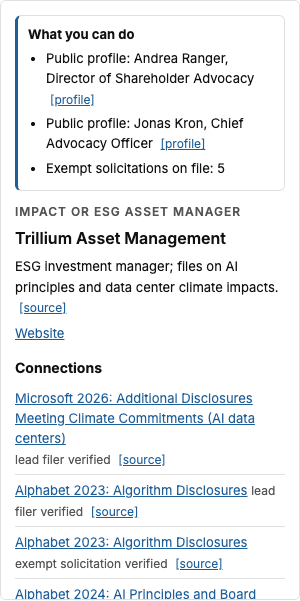
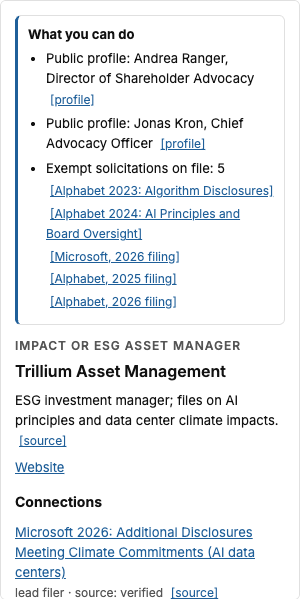
Lens Phase 1: review R2 fixes, dark Obsidian-style graph canvas
- Network graph box is a dark canvas (--g-bg) with bright --gn-* node colours and grey-blue links (owner)
- Confidence wording, real action buttons and measure column in List view, Same topic heading, labelled counts
- Support range: 8-K wording, floor proposals excluded; secondary-domain list extended
- Exempt solicitation links named by proposal or company and year
- STATE.md rewritten; DESIGN.md; reviews R1/R2 saved; screenshots refreshed

Changed region(s): [[0.03, 0.2995, 0.99, 1.0]]

diff --git a/graph.js b/graph.js
@@ -60,6 +60,8 @@
 
   const esc = (s) => String(s ?? "").replace(/[&<>"']/g, (c) => ({ "&": "&amp;", "<": "&lt;", ">": "&gt;", '"': "&quot;", "'": "&#39;" }[c]));
   const link = (url, label = "source") => url ? `<a class="src" href="${esc(url)}" target="_blank" rel="noopener">[${esc(label)}]</a>` : `<span class="unverified">source pending</span>`;
+  // Node colours on the dark graph canvas: the --gn-* set (styles.css), one per --n-* type token.
+  const nodeColor = (kind) => cssVar(String(TYPE_VAR[kind] || "--n-other").replace("--n-", "--gn-"));
   const cssVar = (name) => getComputedStyle(document.documentElement).getPropertyValue(name).trim() || "#888";
 
   let state = null;
@@ -317,7 +319,7 @@
     const order = Object.keys(TYPE_LABEL);
     kinds.sort((a, b) => order.indexOf(a) - order.indexOf(b));
     document.getElementById("net-legend").innerHTML = kinds.map((k) =>
-      `<button type="button" class="leg" data-kind="${esc(k)}" aria-pressed="${!state.hiddenKinds.has(k)}"><span class="dot" style="background:${cssVar(TYPE_VAR[k])}"></span>${esc(TYPE_LABEL[k])}</button>`).join("");
+      `<button type="button" class="leg" data-kind="${esc(k)}" aria-pressed="${!state.hiddenKinds.has(k)}"><span class="dot" style="background:${nodeColor(k)}"></span>${esc(TYPE_LABEL[k])}</button>`).join("");
   }
 
   // One plain line: how much is shown, and what node size means. Recomputed when layers change.
@@ -372,7 +374,7 @@
   // One action item: its text, its links and, for a button, a real control (panel and List view alike).
   function actionHtml(a, id, i) {
     const lk = (href, label) => ` <a class="src" href="${esc(href)}" target="_blank" rel="noopener">[${esc(label)}]</a>`;
-    return `${a.text ? esc(a.text) : ""}${a.href ? lk(a.href, a.hrefLabel || "source") : ""}${(a.links || []).map((l) => lk(l.href, l.label)).join("")}${a.button ? `<button type="button" class="chip" data-act-node="${esc(id)}" data-act="${i}">${esc(a.button.label)}</button>` : ""}`;
+    return `${a.text ? esc(a.text) : ""}${a.href ? lk(a.href, a.hrefLabel || "source") : ""}${a.links && a.links.length ? `<ul class="act-links">${a.links.map((l) => `<li>${lk(l.href, l.label)}</li>`).join("")}</ul>` : ""}${a.button ? `<button type="button" class="chip" data-act-node="${esc(id)}" data-act="${i}">${esc(a.button.label)}</button>` : ""}`;
   }
   function wireActions(root) {
     root.querySelectorAll("[data-act]").forEach((b) => b.addEventListener("click", () => {
@@ -451,10 +453,11 @@
         if (q) return d.label.toLowerCase().includes(q) ? 1 : 0.12;
         return near && !near.has(d.id) ? 0.12 : 1;
       })
-      .attr("stroke-width", (d) => (d.id === state.selected ? 3 : 1.2));
+      .attr("stroke", (d) => (d.id === state.selected ? cssVar("--g-focus") : cssVar("--g-bg")))
+      .attr("stroke-width", (d) => (d.id === state.selected ? 2.5 : 1));
     if (state.ringSel) state.ringSel.attr("display", (d) => (visible(d) ? null : "none"));
     state.linkSel.attr("display", (l) => (visible(l.source) && visible(l.target) ? null : "none"))
-      .attr("stroke-opacity", (l) => (near ? (l.source.id === focusId || l.target.id === focusId ? 0.9 : 0.04) : q ? 0.08 : 0.35));
+      .attr("stroke-opacity", (l) => (near ? (l.source.id === focusId || l.target.id === focusId ? 0.9 : 0.04) : q ? 0.08 : 0.45));
     state.labels.attr("display", (d) => (visible(d) ? null : "none"))
       .attr("opacity", (d) => {
         if (q) return d.label.toLowerCase().includes(q) ? 1 : 0;
@@ -468,7 +471,7 @@
     if (!state.ringLayer) return;
     state.ringLayer.selectAll("*").remove();
     state.ringSel = state.ringLayer.selectAll("circle").data(state.data.nodes.filter((n) => rings(n).length)).join("circle")
-      .attr("r", (d) => radius(d) + 4).attr("fill", "none").attr("stroke", cssVar("--accent")).attr("stroke-width", 2).attr("stroke-dasharray", "4 2")
+      .attr("r", (d) => radius(d) + 4).attr("fill", "none").attr("stroke", cssVar("--g-ring")).attr("stroke-width", 1.5).attr("stroke-dasharray", "4 2")
       .attr("cx", (d) => d.x).attr("cy", (d) => d.y);
   }
   function placeFocusMark() {
@@ -559,18 +562,18 @@
       .force("gy", d3.forceY((d) => groupY(d) * height).strength(state.cfg.group * 0.8));
     state.sim = sim;
     // Column labels for the grouped layout; they move and zoom with the graph.
-    state.axis = g.append("g").attr("font-size", 11).attr("font-weight", 600).attr("fill", cssVar("--ink-soft"))
+    state.axis = g.append("g").attr("font-size", 11).attr("font-weight", 600).attr("fill", cssVar("--g-label-soft"))
       .attr("display", state.cfg.group > 0 ? null : "none");
     drawAxis();
-    state.linkSel = g.append("g").attr("stroke", cssVar("--blue-3")).attr("fill", "none").selectAll("path").data(data.links).join("path")
+    state.linkSel = g.append("g").attr("stroke", cssVar("--g-link")).attr("fill", "none").selectAll("path").data(data.links).join("path")
       .attr("stroke-width", (l) => (l.relation === "lead filer" ? 1.4 : 1) * state.cfg.linkScale)
       // Membership links are dashed; links with no source (inferred) are dotted, so the two never look alike.
       .attr("stroke-dasharray", (l) => (conf(l).level === "inferred" ? "1 3" : l.relation === "member of" ? "3 3" : null));
 
     state.node = g.append("g").selectAll("circle").data(data.nodes).join("circle")
       .attr("r", radius)
-      .attr("fill", (d) => cssVar(TYPE_VAR[d.kind]))
-      .attr("stroke", cssVar("--surface"))
+      .attr("fill", (d) => nodeColor(d.kind))
+      .attr("stroke", cssVar("--g-bg"))
       .style("cursor", "pointer")
       .on("mouseenter", (ev, d) => { state.hover = d.id; applyStyles(); })
       .on("mouseleave", () => { state.hover = null; applyStyles(); })
@@ -583,15 +586,15 @@
     // Lens rings (dashed, accent) and the keyboard focus mark (solid ink ring with a white gap) sit on top.
     state.ringLayer = g.append("g").attr("pointer-events", "none");
     state.focusMark = g.append("g").attr("pointer-events", "none").attr("display", "none");
-    state.focusMark.append("circle").attr("class", "fm-gap").attr("fill", "none").attr("stroke", cssVar("--bg")).attr("stroke-width", 3);
-    state.focusMark.append("circle").attr("class", "fm-ring").attr("fill", "none").attr("stroke", cssVar("--ink")).attr("stroke-width", 2);
+    state.focusMark.append("circle").attr("class", "fm-gap").attr("fill", "none").attr("stroke", cssVar("--g-bg")).attr("stroke-width", 3);
+    state.focusMark.append("circle").attr("class", "fm-ring").attr("fill", "none").attr("stroke", cssVar("--g-focus")).attr("stroke-width", 2);
     drawRings();
 
     state.labels = g.append("g").selectAll("text").data(data.nodes).join("text")
       .text((d) => (d.label.length > 42 ? d.label.slice(0, 40) + "…" : d.label))
       .attr("font-size", (d) => (d.kind === "company" ? state.cfg.textSize + 2 : state.cfg.textSize))
       .attr("font-weight", (d) => (d.kind === "company" ? 600 : 400))
-      .attr("fill", cssVar("--ink"))
+      .attr("fill", cssVar("--g-label"))
       .attr("pointer-events", "none")
       .attr("dx", (d) => radius(d) + 4).attr("dy", 4);
 
@@ -627,7 +630,7 @@
       .sort((a, b) => ((dir === "descending" ? -1 : 1) * ((val(a) ?? -1) - (val(b) ?? -1))) || a.label.localeCompare(b.label));
     const body = rows.map((n) => {
       const acts = actions(n).map((x, i) => actionHtml(x, n.id, i));
-      return `<tr><td><button type="button" class="linklike" data-id="${esc(n.id)}">${esc(n.label)}</button></td><td>${esc(TYPE_LABEL[n.kind])}</td>${m ? `<td class="num">${val(n) ?? ""}</td>` : ""}<td class="num">${n.degree || 0}</td><td>${esc(rings(n).map((r) => r.text).join(", "))}</td><td>${acts.join("<br>")}</td></tr>`;
+      return `<tr><td><button type="button" class="linklike" data-id="${esc(n.id)}">${esc(n.label)}</button></td><td>${esc(TYPE_LABEL[n.kind])}</td>${m ? `<td class="num">${val(n) ?? "–"}</td>` : ""}<td class="num">${n.degree || 0}</td><td>${esc(rings(n).map((r) => r.text).join(", "))}</td><td>${acts.join("<br>")}</td></tr>`;
     }).join("");
     const el = document.getElementById("net-list");
     const sortLabel = m ? m.label : "Connections";

diff --git a/lenses.js b/lenses.js
@@ -94,8 +94,19 @@
     people.forEach((p) => out.push({ text: `Public profile: ${p.label}${p.title ? ", " + p.title : ""}`, href: p.profile_url || p.source_url, hrefLabel: "profile" }));
     // Exempt solicitations filed by this organisation: distinct filings, not graph edges (one filing can
     // appear on both the proposal and the company). "support" edges are statements, not filings.
-    const filings = new Set(ctx.links.filter((l) => end(l.source) === n.id && /^exempt solicitation/.test(l.relation) && !/support/.test(l.relation) && l.source_url).map((l) => l.source_url));
-    if (filings.size) out.push({ text: `Exempt solicitations on file: ${filings.size}`, links: [...filings].map((href, i) => ({ href, label: String(i + 1) })) });
+    // Each link is named by what the filing is about (its proposal or company), so links can be told apart.
+    const filings = new Map();
+    ctx.links.filter((l) => end(l.source) === n.id && /^exempt solicitation/.test(l.relation) && !/support/.test(l.relation) && l.source_url)
+      .forEach((l) => {
+        const t = ctx.byId.get(end(l.target));
+        // A filing tied only to a company is named by company and filing year; the year is the two digits
+        // after the filer ID in an SEC accession number (…/000121465925006528/ is a 2025 filing).
+        const yr = (String(l.source_url).match(/\/\d{10}(\d{2})\d{6}\//) || [])[1];
+        const name = t ? (t.kind === "proposal" || !yr ? t.label : `${t.label}, 20${yr} filing`) : "filing";
+        // Prefer the proposal's name over the company's when the same filing is on both.
+        if (!filings.has(l.source_url) || (t && t.kind === "proposal")) filings.set(l.source_url, name.length > 48 ? name.slice(0, 46) + "…" : name);
+      });
+    if (filings.size) out.push({ text: `Exempt solicitations on file: ${filings.size}`, links: [...filings].map(([href, label]) => ({ href, label })) });
     return out;
   }
 
@@ -155,8 +166,7 @@
         const cos = new Set(same.map((p) => p.company));
         const years = same.map((p) => p.year).filter(Boolean).sort();
         const span = years.length ? (years[0] === years.at(-1) ? `${years[0]}` : `${years[0]}–${years.at(-1)}`) : "";
-        const out = [{ text: `Same topic (${n.topic}): ${same.length} proposals at ${cos.size} ${cos.size === 1 ? "company" : "companies"}${span ? ", " + span : ""}` }];
-        // Only figures stated in a vote-results filing; no average is computed.
+        const out = [{ text: `${n.topic}: ${same.length} proposals at ${cos.size} ${cos.size === 1 ? "company" : "companies"}${span ? ", " + span : ""}` }];
         // Lowest and highest support where an 8-K reports the vote; no average. Many of these figures are
         // computed by this site from the 8-K's vote counts (see support_note in data/proposals.json), so the
         // text points to the notes. Floor proposals (raised at the meeting, so proxy votes could not be cast on

diff --git a/styles.css b/styles.css
@@ -161,6 +161,19 @@ tr.hit td { background: var(--accent-soft); }
   --n-tier-chips: #1e40af; --n-tier-datacenters: #155e75; --n-tier-compute: #4338ca;
   --n-tier-labs: #6d28d9; --n-tier-capital: #a16207; --n-tier-deployers: #374151;
 }
+/* Co-filer network canvas: dark, like Obsidian's graph view (owner, 2026-11-25: "for the graph view i want
+   the black background and colors like this so that the graph looks similar to an Obsidian graph").
+   Only the graph box is dark; the page, panel, key and List view stay white. Node colours are bright and
+   distinct on the dark canvas; links are thin grey-blue. Every node colour reaches 4.5:1 or more on --g-bg. */
+:root {
+  --g-bg: #1e1e1e; --g-link: #7a8199; --g-label: #dcddde; --g-label-soft: #a1a1aa; --g-ring: #7dd3fc; --g-focus: #ffffff;
+  --gn-company: #93c5fd; --gn-lab: #c4b5fd; --gn-proposal: #38bdf8;
+  --gn-manager: #4ade80; --gn-nonprofit: #f472b6; --gn-faith: #e879f9; --gn-pension: #fb923c;
+  --gn-labor: #facc15; --gn-foundation: #bef264; --gn-coalition: #2dd4bf; --gn-other: #a1a1aa;
+  --gn-person: #e2e8f0; --gn-policy: #fca5a5; --gn-response: #67e8f9; --gn-public: #f9a8d4;
+  --gn-tier-chips: #fbbf24; --gn-tier-datacenters: #22d3ee; --gn-tier-compute: #60a5fa;
+  --gn-tier-labs: #a78bfa; --gn-tier-capital: #f87171; --gn-tier-deployers: #d4d4d8;
+}
 /* Graph settings panel (display, filters, forces), modelled on Obsidian's graph view settings. */
 .graph-settings { border: 1px solid var(--control-edge); border-radius: var(--radius); padding: 6px 12px; margin: 0 0 10px; font-size: 13px; }
 .graph-settings summary { cursor: pointer; font-weight: 600; padding: 2px 0; }
@@ -174,7 +187,7 @@ tr.hit td { background: var(--accent-soft); }
 .gs-check { display: flex; gap: 6px; align-items: center; }
 .gs-check input { accent-color: var(--accent); }
 .net-body { display: grid; grid-template-columns: 1fr 300px; gap: 12px; }
-.net-graph { height: 600px; background: var(--surface); border: 1px solid var(--line); border-radius: var(--radius); overflow: hidden; touch-action: none; }
+.net-graph { height: 600px; background: var(--g-bg); border: 1px solid var(--g-bg); border-radius: var(--radius); overflow: hidden; touch-action: none; }
 .net-graph svg { display: block; }
 .net-list { min-width: 0; }
 .net-list .table-wrap { margin-top: 0; }
@@ -190,6 +203,9 @@ tr.hit td { background: var(--accent-soft); }
 .net-actions ul { margin: 0; padding-left: 18px; }
 .net-actions li { margin: 4px 0; }
 .net-actions .chip { margin-top: 2px; }
+.net-actions .act-links { list-style: none; padding: 0; margin: 2px 0 0; }
+.net-actions .act-links li { margin: 2px 0; overflow-wrap: anywhere; }
+.net-actions .act-links .src { white-space: normal; }
 .ring-note { font-size: 12px; font-weight: 600; color: var(--accent); }
 .ring-note::before { content: "◌ " / ""; }
 .conf { font-size: 12px; color: var(--ink-soft); }

diff --git a/tests/lens.spec.js b/tests/lens.spec.js
@@ -72,7 +72,12 @@ test("opening a tab puts its name in the address (#hash)", async ({ page }) => {
 test("labels are off until a node is selected, then name it and its connections", async ({ page }) => {
   await openNetwork(page, "?lens=impact");
   await page.waitForTimeout(800);
-  const shown = () => page.$$eval("#net-graph text", (ts) => ts.filter((t) => t.getAttribute("display") !== "none" && t.getAttribute("opacity") === "1").map((t) => t.textContent));
+  const shown = () =>
+    page.$$eval("#net-graph text", (ts) =>
+      ts
+        .filter((t) => t.getAttribute("display") !== "none" && t.getAttribute("opacity") === "1")
+        .map((t) => t.textContent),
+    );
   expect(await shown()).toEqual([]);
   await page.evaluate(() => window.focusNetworkNode("co-MSFT"));
   const after = await shown();

diff --git a/docs/STATE.md b/docs/STATE.md
@@ -1,6 +1,6 @@
 # Shareholder Advocacy AI Landscape — current state
 
-Rewritten in place, never appended. Hard cap 200 lines. Last updated 2026-11-25 (UI session, round 2 merge).
+Rewritten in place, never appended. Hard cap 200 lines. Last updated 2026-11-25 (UI session, lens Phase 1 on branch, not merged).
 
 ## Sessions and branches (read this first)
 
@@ -9,7 +9,7 @@ Rewritten in place, never appended. Hard cap 200 lines. Last updated 2026-11-25 
 | Session | Owns | Branch | State |
 |---|---|---|---|
 | Data / backend ("Account linking") | `data/*.json`, `scripts/`, `SOURCES.md`, `.github/workflows/` | `data/value-chain` (open) | On `main` since this merge: 60 companies (`data/companies.json`, owner kept all), value-chain tiers (`data/value_chain.json`, `tier`/`tiers` on companies and graph nodes), ownership for 9 private labs. Open on `data/value-chain`: rights maps for 22 more US companies (commit a1f5649, in data accuracy review) and value-chain ties plus per-tier facts (in research). |
-| UI ("Shareholder advocacy AI landscape UI") | page files: `index.html`, `styles.css`, `app.js`, the view JS files incl. `votes.js`, `DESIGN.md`, `tests/` | `design/round2-structure` (merged with this update) | Round 2 live. Next: lens Phase 1 (owner approved), then the value-chain and engagement-map visuals once `data/value_chain.json` lands. |
+| UI ("Shareholder advocacy AI landscape UI") | page files: `index.html`, `styles.css`, `app.js`, the view JS files incl. `votes.js`, `DESIGN.md`, `tests/` | `design/lens-phase1` (pushed, **not merged**; waits for the owner's go-ahead) | Round 2 live. Lens Phase 1 built and checked on the branch; see "Lens Phase 1" below. Next: lens Phase 2 after the owner's go-ahead, and the value-chain and engagement maps (data now on `data/value-chain`). |
 | Protocol setup | `AGENTS.md`, `CLAUDE.md`, checks, `docs/` structure | `docs-session-onboarding` (local) | Idle. |
 
 **Data contract:** views read only `data/*.json`.
@@ -65,15 +65,22 @@ Rewritten in place, never appended. Hard cap 200 lines. Last updated 2026-11-25 
 
 **Network node key by value-chain tier** (owner, after R2): "Instead of 'company,' have 'Frontier AI Labs,' 'hyperscalers,' 'chip builders' … coordinate with the other chat". Built to read `tier` from graph.json, with labels verbatim from the data session. It shows "Company (tier not yet assigned)" until `data/value-chain` merges. Tested with that branch's data: 24/24 pass.
 
+## Lens Phase 1 (branch `design/lens-phase1`)
+
+Plan: docs/plans/2026-11-25-lens-phase1.md (Revision 2, plus Build notes).
+- Co-filer network: a "View as" choice of Impact investor, Individual investor or Policymaker, kept in `?lens=` and in localStorage.
+- `lenses.js` holds each lens's layers, size, rings, actions and measure. `rules.js` holds the edge-confidence domain list.
+- The "What you can do" block; edge confidence (verified / reported / inferred); keyboard node navigation; a List view of every visible node.
+- Labels are off by default and show on select (owner, mid-build).
+- **Dark Obsidian-style graph canvas** (owner, mid-build): `--g-bg` #1e1e1e, bright `--gn-*` node colours (6:1 or more), grey-blue links. The page stays white; Lab pathways keeps `--n-*`.
+- **Bug fixed:** since round 2, tabs no longer wrote `#hash` to the address bar, because `app.js`'s `history()` replaced `window.history`. It is now `voteHistory()`, with a test.
+- **Check (merged with origin/main):** lint 0 errors; 54 passed, 2 skipped (keyboard test at desktop only); Lighthouse 100/100/100 for accessibility, best practices and SEO, performance 100 phone / 90 desktop.
+- **Reviews:** R1 UX 72, accessibility 83 PASS, data 76. R2 UX 86 PASS, data 88 PASS. The dark canvas came after R2 and has not been reviewed.
+
 ## Next (UI session)
 
-1. **Lens Phase 1** (owner approved with defaults: plain-language definitions only in the Individual investor lens; static rings plus countdown, pulse optional):
-   - Impact investor / Individual investor / Policymaker toggle, `?lens=`;
-   - `lenses.js` and `rules.js` config files;
-   - "What you can do" panel block;
-   - edge confidence markers (verified / reported / inferred);
-   - keyboard focus on graph nodes.
-2. **Value chain map and engagement map** (owner request via the data session): build when `data/value_chain.json` is merged.
+1. **Lens Phase 2** after the owner's go-ahead: open-window aura, seeking aura, resubmission flags (thresholds in `rules.js`), holdings overlay, gap finder, warm path.
+2. **Value-chain map and engagement map:** `data/value_chain.json` `ties` and `per_tier` exist on `data/value-chain`. Show its `derived_note` caveat: proposal counts cover the original 7 companies only.
 
 ## Queue (found, not picked up)
 
@@ -90,6 +97,9 @@ Rewritten in place, never appended. Hard cap 200 lines. Last updated 2026-11-25 
 6. **Outside links to check by hand:** an SEC comment PDF (`data/causality.json`); www.omiusa.org and www.harringtoninvestments.com (`data/graph.json`).
 7. **Deploy publishes the whole repo** (`path: .` in refresh.yml). It could publish `dist/` instead; this is the owner's call.
 8. **Playwright still runs a "dark" project** although the site has one white theme. Drop the dark projects in `playwright.config.js` to halve test time.
+9. **Network link contrast:** links are `--blue-3` at 0.35 opacity (about 1.5:1). The dotted "inferred" lines are hard to tell from dashed membership lines at 1px. The panel and List view carry the same facts as text. Raising the opacity makes the graph busier, so it's for the owner (accessibility R1).
+10. **Data, for the data session:** graph.json and proposals.json support values differ slightly (33.57 vs 33.58). Item 6 at Microsoft 2026 is "Social & economic impacts" in graph.json but "Data center impacts" in upcoming.json.
+11. **Proposals tab has no filer filter**, so the network can't offer "Open its filings in Proposals".
 
 ## Owner actions
 

diff --git a/DESIGN.md b/DESIGN.md
@@ -37,7 +37,7 @@ One white theme (`color-scheme: light`). All colours are tokens on `:root` in `s
 | Visual | Encoding |
 |---|---|
 | Proposals dot plot | x = meeting date; y = support (0–60%, or higher if the data needs it); one mark per voted proposal with a dated vote-results filing. Topic = shade **and** shape: data centres navy circle, social and economic mid-blue square, governance light-blue triangle. Hollow mark = the figure carries a basis note or caveat (numbered note under the table). Dashed line "50% of for + against". Marks sharing a date are spread 7px apart. |
-| Co-filer network | **Exception to all-blue, by the owner's direction:** one saturated, distinct colour per node type (`--n-*`, each 3:1 or more on white), so types read straight off the key. **Companies are typed by value-chain tier** (the `tier` field on graph.json nodes, from the data session): Chip builders, Data centers and power, Hyperscalers and AI clouds, Frontier AI labs, Strategic investors, AI deployers. Each tier has its own `--n-tier-*` colour, and companies sit in tier bands within the Companies column. A company with no tier shows as "Company (tier not yet assigned)". The intro says the tiers are this site's reading. Overlapping default labels are hidden, keeping companies and labs first and then the most connected nodes; hover or select a node to show its label. **Grouped 2D layout:** x follows the filing chain (people → filers → proposals → companies → frontier labs); filer types each get a horizontal band; policy, responses and public engagement sit in a top band. Size = number of connections. Links light blue, thin quadratic arcs. **Graph settings** panel (like Obsidian's): text size, label threshold, node size and link thickness (Display); orphans (Filters); grouping, centre, repel and link force, and link distance (Forces). Saved per viewer in localStorage, with "Reset to defaults". |
+| Co-filer network | **Exception to all-blue and to the white page, by the owner's direction:** the graph box is a dark canvas like Obsidian's graph view (`--g-bg` #1e1e1e; owner: "the black background and colors like this so that the graph looks similar to an Obsidian graph"). One bright, distinct colour per node type (`--gn-*`, each 4.5:1 or more on `--g-bg`), so types read straight off the key. Links are thin grey-blue (`--g-link`) and labels light (`--g-label`). The page, key, panel and List view stay white. Lab pathways keeps the `--n-*` colours on white. **Companies are typed by value-chain tier** (the `tier` field on graph.json nodes, from the data session): Chip builders, Data centers and power, Hyperscalers and AI clouds, Frontier AI labs, Strategic investors, AI deployers. Each tier has its own `--n-tier-*` colour, and companies sit in tier bands within the Companies column. A company with no tier shows as "Company (tier not yet assigned)". The intro says the tiers are this site's reading. Overlapping default labels are hidden, keeping companies and labs first and then the most connected nodes; hover or select a node to show its label. **Grouped 2D layout:** x follows the filing chain (people → filers → proposals → companies → frontier labs); filer types each get a horizontal band; policy, responses and public engagement sit in a top band. Size = number of connections. Links thin grey-blue quadratic arcs on the dark canvas. **Graph settings** panel (like Obsidian's): text size, label threshold, node size and link thickness (Display); orphans (Filters); grouping, centre, repel and link force, and link distance (Forces). Saved per viewer in localStorage, with "Reset to defaults". |
 | Lab pathways | Company → lab ties navy, width = tie strength. Filer → company links light blue, width = proposals filed. |
 | Policy and causality | Event nodes mid blue. Link type by dash pattern: led to solid · responded to dashed · restricts dotted · enables dash-dot · cited by sparse dots. |
 | Disclosure scorecard | Met = solid blue, partial = hatched blue, silent = grey outline. |

diff --git a/docs/reviews/2026-11-25 lens phase1 result R2 data accuracy.md b/docs/reviews/2026-11-25 lens phase1 result R2 data accuracy.md
@@ -1,0 +1,33 @@
+REVIEWER: Data accuracy SCORE: 88 VERDICT: PASS
+
+Round 2. I re-ran lenses.js and rules.js in node against the merged data: graph.json now has 335 nodes and 709 edges.
+
+TOP FAILURES (max 3, each with evidence)
+1. **A stale comment in lenses.js contradicts the fix.** In the Policymaker actions, the old line "Only figures stated in a vote-results filing; no average is computed." still sits directly above the new comment that says many figures are computed from vote counts. It doesn't change what's shown, but the code now states both claims.
+2. **The low end of the range carries a caveat that's lost.** Social & economic impacts recomputes to 0.46%–37.5% across 33 proposals, which matches the screenshot. The 0.46% is Alphabet 2025 (googl-2025-10). Its `support_note` says the figure is "Not stated in the 8-K" and that, because of dual-class voting, "support from outside holders is higher". The generic "notes are in Proposals" line covers this only loosely.
+3. **The screenshot doesn't match the current code.** desktop-light-policy-proposal.png reads "Same topic (Social & economic impacts): 43 proposals…". lenses.js now prints "Social & economic impacts: 43 proposals at 6 companies, 2023–2026" under the "Same topic" heading. The numbers agree; the wording is one revision behind.
+
+Verified:
+- **Confidence markers:** 457 verified, 85 reported, 167 inferred. Your count of 456 differs by 1 because graph.json has one more edge after the merge (709 vs 708).
+- **Domain list:** all 16 added domains are present (36 in total), and none is unused.
+- **co-MSFT:** "top 3 of 13 by proposals". There are 13 distinct filers, which matches the screenshot. The meeting note is quoted correctly and the proxy link is right.
+- **Trillium:** 5 distinct exempt solicitations and 2 public profiles. NLPC: 6.
+- **Floor filter:**
+  - amzn-2026-worker-ai-council is excluded because its source_url contains "Floor".
+  - googl-2025-15(floor) has no `results_url`, so it was never in the range.
+  - No other floor proposals exist.
+- The dropped filer action and its reason are recorded in the plan's Build notes.
+
+TOP IMPROVEMENTS (max 3)
+1. Delete the stale comment line.
+2. Mark a figure whose `support_note` mentions dual-class voting, or name the Alphabet caveat in the support line.
+3. Detect floor proposals from a data field, not from "floor" in the id or URL, once the data session nulls those values. Then re-take the policy screenshot.
+
+OUT-OF-FIELD NOTES (max 3, one line each)
+- msft-2026-hr-hotspots is "Social & economic impacts" in graph.json, but upcoming.json gives item 6 as "Data center impacts".
+- graph.json has 49 support values with a `results_url`, proposals.json has 53, and some values differ (33.57 vs 33.58).
+- amzn-2026-worker-ai-council still has support_pct 0.0 on this branch; the nulling is pending on the data branch.
+
+CONTENT RULES: PASS
+- **Never claim 1–2:** the actions state dates, filers and counts, and `board_rec` is never shown. The deadline appears only as a quoted "Proxy note".
+- **Never claim 5:** no average is computed, the range ends are figures on file, and the text now says some are computed from 8-K counts.

diff --git a/docs/reviews/2026-11-25 lens phase1 result R2 ux content.md b/docs/reviews/2026-11-25 lens phase1 result R2 ux content.md
@@ -1,0 +1,23 @@
+REVIEWER: UX / content SCORE: 86 VERDICT: PASS
+
+R1 FIXES CHECKED
+- The confidence wording is fixed. It now reads "lead filer · source: verified" and "equity stake · source: reported", so it no longer runs into the relation text (graph.js:344; screenshots desktop-light-impact-microsoft.png and desktop-light-impact-filer-panel.png).
+- List view: action buttons are real `<button data-act>` elements wired by `wireActions`, links are kept, and there is a lens measure column, sortable with aria-sort, plus a persistent count line naming the sort (graph.js:373-382 and 621-650). Fixed.
+- "Open its filings in Proposals" is dropped and recorded in the plan's Build notes (line 111). That's the right call under the no-dead-controls rule.
+- Counts are labelled: "top 3 of 13 by proposals … (3 proposals)" (lenses.js:83). The Policymaker block is headed "Same topic". Each exempt solicitation is linked.
+
+TOP FAILURES (none blocking)
+1. desktop-light-policy-proposal.png is stale. It shows "Same topic" twice (the heading, then "Same topic (Social & economic impacts): …"). The working tree has fixed this (lenses.js:158 now leads with `${n.topic}:`; lenses.js was modified after the shots, at 19:29), but no current screenshot shows the fix. Re-shoot before you record the result.
+2. The exempt solicitation links are labelled [1] [2] [3] [4] [5] (lenses.js:98; filer-panel screenshot). A practitioner can't tell which filing is which, and a screen reader hears only "1", "2". Use a date or the proposal name instead.
+
+TOP IMPROVEMENTS
+1. Policymaker: "notes are in Proposals" points somewhere in text only. A real link or button to the Proposals tab filtered by that topic would make it usable. If no topic filter exists, the current wording is fine.
+2. In the Individual lens list, proposals show a blank in "AI proposals on file", and 0-proposal companies (Warner Bros. Discovery, Workday) sort together at the bottom. Consider an en dash for "not applicable" so a blank isn't read as missing data.
+3. The upcoming meeting is listed as "Next AI vote: December 8, 2026. Proxy note: 'Vote by 11:59 p.m. …'". Quoting it removes the imperative concern; keep it as is.
+
+OUT-OF-FIELD NOTES
+- Visual: with labels shown on select, the labels around Microsoft still overlap heavily ("Microsoft" is hidden under a proposal label) in desktop-light-impact-microsoft.png.
+- Data accuracy: the support range now starts at 0.46% and floor proposals are excluded. Confirm the data session's null `support_pct` change has landed so the range doesn't shift after merge.
+- Accessibility: the bare numeric link labels from failure 2 also matter for WCAG 2.4.4 (link purpose).
+
+CONTENT RULES: PASS. Actions state dates, links, people and counts. Nothing says how to vote or gives advice. The proxy deadline is quoted as the filing's own words. No average is computed, and the computed-from-8-K caveat is stated. People are shown only by name, title and public profile. Headings are plain labels.

diff --git a/docs/plans/2026-11-25-lens-phase1.md b/docs/plans/2026-11-25-lens-phase1.md
@@ -113,3 +113,5 @@ The open-window aura, seeking asks, resubmission flags, holdings overlay, gap fi
 - **Floor proposals are left out of support ranges** (data session: proxy votes could not be cast on them). The data session is setting their `support_pct` to null on `data/value-chain`.
 - **Fixed a round-2 bug found while testing:** `app.js` declared a top-level `function history()`, which replaced `window.history`. Tabs had stopped writing their `#hash` to the address bar. It is renamed `voteHistory()`, and there is a new test.
 - After result review R1: confidence reads "· source: verified" or "· no source, inferred from co-filing". The List view gets real action buttons and links, plus the lens's measure column (sortable). The Policymaker block is headed "Same topic". Counts are labelled. The meeting note is quoted as "Proxy note: “…”".
+- **Added: dark graph canvas** (owner, after R2: "for the graph view i want the black background and colors like this so that the graph looks similar to an Obsidian graph"). Only the graph box is dark; the tokens are in styles.css (`--g-*`, `--gn-*`). Not re-reviewed.
+- After R2: exempt solicitation links are named by proposal, or by company and filing year, and listed one per line; the List view shows "–" where the lens measure doesn't apply.
